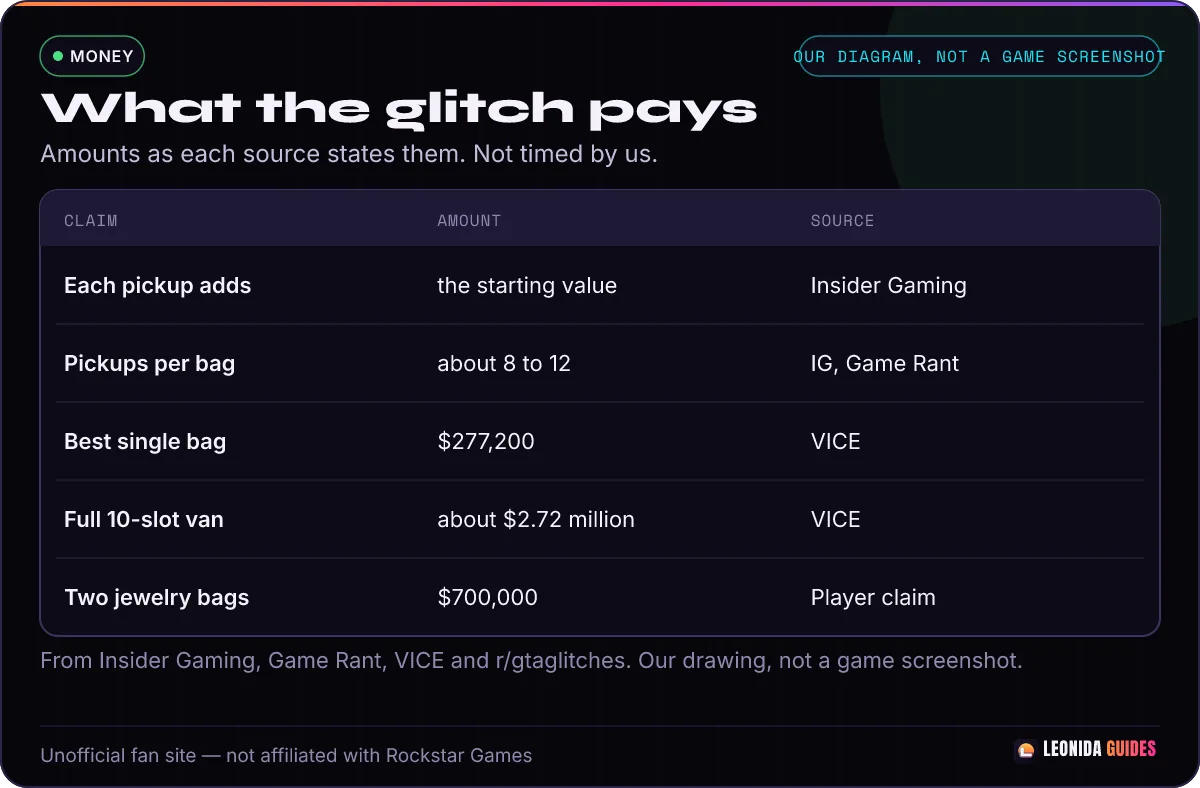
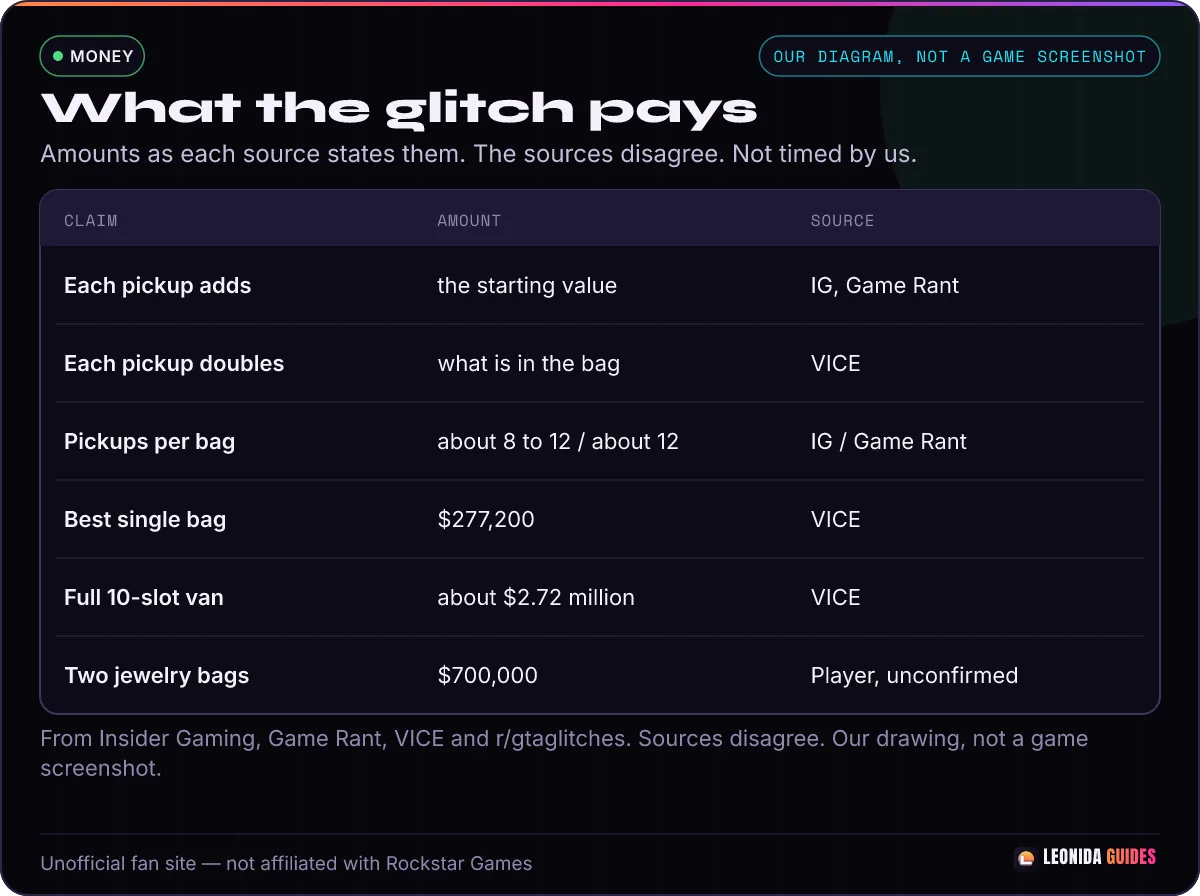
content: auto-publish 2026-11-28T18:31:50.651Z

diff --git a/content/gta-6-stash-bag-duplication-glitch.md b/content/gta-6-stash-bag-duplication-glitch.md
@@ -13,7 +13,9 @@ sources:
   - "VICE | https://www.vice.com/en/article/new-gta-6-money-glitch-lets-you-duplicate-millions-in-minutes/"
   - "Rockstar Support, GTA VI Launch Updates | https://support.rockstargames.com/articles/sN5pEdFYZdlvijKXd6xpJ/grand-theft-auto-vi-launch-updates-ps5-xbox-series-x-or-s"
   - "r/gtaglitches, u/-UnknownInsider- | https://www.reddit.com/r/gtaglitches/comments/1y6zydm/unlimited_easy_faster_money_glitch/"
-  - "r/gtaglitches, u/LBJ_23_LAL | https://www.reddit.com/r/gtaglitches/comments/1y7p9wf/gta_vi_improved_crouch_method_money_glitch_1mil10/"
+  - "r/gtaglitches, u/inCORRECTruth | https://www.reddit.com/r/gtaglitches/comments/1y6zydm/unlimited_easy_faster_money_glitch/19tai3xsn8eg5/"
+  - "r/gtaglitches, u/Choppergunner58 | https://www.reddit.com/r/gtaglitches/comments/1y6zydm/unlimited_easy_faster_money_glitch/19taclzfdb76p/"
+  - "r/gtaglitches, u/cloeieex | https://www.reddit.com/r/gtaglitches/comments/1y6zydm/unlimited_easy_faster_money_glitch/19ta3vvuil0yt/"
 updated: 2026-11-28
 published: 2026-11-28
 status: live
@@ -26,9 +28,9 @@ tags: [money, glitch, stash-bags, ps5, xbox]
 
 # GTA 6 Stash Bag Duplication Glitch: Drop, Pick Up, Repeat
 
-> - **Quick answer:** **crouch**, drop a stash bag from the **Items** side of the weapon wheel, then pick it up again **without touching the left stick**. Each pickup adds the bag's starting value again (Insider Gaming, Game Rant, VICE).
-> - **What it pays:** it stops growing after about **8 to 12 pickups** (Insider Gaming, Game Rant). VICE's best bag was **$277,200**. A full 10-slot van of bags like that would be about **$2.72 million** (VICE).
-> - **Status: working** in outlet and player reports on 27 and 28 Nov, after update 01.002.002. No newer patch as of 28 Nov. Not tested by us.
+> - **Quick answer:** **crouch**, drop a stash bag from the **Items** side of the weapon wheel, then pick it up again **without touching the left stick**. Insider Gaming and Game Rant say each pickup adds the bag's starting value again. VICE says each pickup doubles what is in the bag. The sources disagree.
+> - **What it pays:** Insider Gaming says it stops growing after about **8 to 12 pickups**. Game Rant says about **12**. VICE's best bag was **$277,200**. A full 10-slot van of bags like that would be about **$2.72 million** (VICE).
+> - **Status: working** in outlet and player reports on 27 and 28 Nov, after the 23 Nov update. No newer patch as of 28 Nov. Not tested by us.
 
 **Words used on this page.** A *glitch* is a bug you can use on purpose. A *stash bag* is the bag your loot goes into: drugs, jewelry or marked bills. *Duplicate* means copy. The *Items wheel* is the items side of the weapon wheel. A *fence* is a person who buys stolen goods. *BuckMe* is the game's bank app.
 
@@ -38,10 +40,10 @@ tags: [money, glitch, stash-bags, ps5, xbox]
 
 | What | Answer | Source |
 |---|---|---|
-| You need | One stash bag with loot in it. Two bags work too. | Insider Gaming, VICE |
-| Where | Anywhere quiet on the map | VICE, Insider Gaming |
-| How much it grows | The starting value is added again on each pickup | Insider Gaming, Game Rant |
-| Limit per bag | About 8 to 12 pickups | Insider Gaming, Game Rant |
+| You need | One stash bag with loot in it. Two bags work too. | Insider Gaming, u/-UnknownInsider- |
+| Where | Anywhere on the map | VICE |
+| How much it grows | Sources disagree. Insider Gaming and Game Rant say the starting value is added again on each pickup. VICE says each pickup doubles what is in the bag. | Insider Gaming, Game Rant, VICE |
+| Limit per bag | About 8 to 12 pickups (Insider Gaming). Game Rant says about 12. | Insider Gaming, Game Rant |
 | Best bag in a test | $277,200 | VICE |
 | Both characters needed? | No | Game Rant |
 
@@ -50,72 +52,74 @@ tags: [money, glitch, stash-bags, ps5, xbox]
 
 ## Before you start
 
-1. **Fill a stash bag first.** The fuller the bag, the more each pickup adds (Insider Gaming, Game Rant). Rob a store, raid an illegal operation, or use the respawning drugs from our [GTA 6 money glitch](/money/gta-6-money-glitch/) page (VICE).
+1. **Fill a stash bag first.** Insider Gaming says a full bag makes the glitch worth more. Game Rant says the higher the starting value, the more you make each cycle. Rob a store or heist (Game Rant), raid an illegal operation, or use the respawning drugs from our [GTA 6 money glitch](/money/gta-6-money-glitch/) page (VICE).
 2. **Get away from trouble.** Police or enemies can interrupt you (Insider Gaming).
 3. **Check your BuckMe limit.** Money over your limit shows as "pending" (VICE). See the tips below.
 
-:::spoiler Who pays the most for drugs (names a fence from Chapter 3)
+:::spoiler Who pays the most for drugs (names a fence)
 Insider Gaming and VICE say **Tyrone** pays well for narcotics. VICE drives the full van to Tyrone in Vice City. Insider Gaming says he pays the most once your relationship with him is maxed out.
 :::
 
 ## How to do the stash bag duplication glitch
 
-1. **Crouch.** Press **Circle** (Xbox: **B**) (VICE; Classic controls use L3). Wait until your character is all the way down (u/LBJ_23_LAL).
+1. **Crouch.** Press **Circle** (VICE). VICE only gives the PlayStation button.
 2. **Stop touching the left stick** from now on (Insider Gaming, Game Rant).
 3. **Open the weapon wheel.** Hold **L1** (Xbox: **LB**). Press **R1** (Xbox: **RB**) to go to **Items** (Game Rant).
 4. **Drop the bag.** Highlight the stash bag and hold **Circle** (Xbox: **B**) (Game Rant, Insider Gaming).
 5. **Look at the bag with the right stick only** until the pick-up prompt shows (Game Rant).
-6. **Pick it up.** Press **Triangle** (Xbox: **Y**) (VICE, u/LBJ_23_LAL). The bag's value goes up.
-7. **Repeat steps 3 to 6** until the value stops going up. Then put the bag in your car or sell it, and start again with a new bag (Game Rant).
+6. **Pick it up.** Press **Triangle** (VICE). VICE only gives the PlayStation button. The bag's value goes up.
+7. **Repeat steps 3 to 6** until the value stops going up. Game Rant says to sell the bag and start again with a new one. VICE says you can store a finished bag in a van first.
 
-**Two bags at once.** Insider Gaming says to drop your **second** bag first, then the first, and pick both up the same way. Both grow.
+**Two bags at once.** Insider Gaming says to drop your **second** bag first, then the first, and pick both up the same way. Both grow. The original post by u/-UnknownInsider- also uses two bags.
 
 **Did nothing happen?** You probably moved. Game Rant and Insider Gaming both say your character must not move. Drop the bag again and only turn the camera.
 
-![Our diagram with three cards: crouch and stay still, drop from the Items wheel, pick up with the camera only. Not a game screenshot.](TODO: image:gta-6-stash-bag-duplication-glitch-step-2 — diagram, our own art: three rule cards for the glitch, what to do and what breaks it)
+![Our diagram with three cards: crouch and stay still, drop from the Items wheel, pick up with the camera only. Moving the left stick breaks it. Not a game screenshot.](TODO: image:gta-6-stash-bag-duplication-glitch-step-2 — diagram, our own art: three rule cards for the glitch, what to do and what breaks it)
 *Caption: Diagram. The three rules: stay crouched, drop from Items, move only the camera.*
 
 ## The faster version: copy a full bag (player tip)
 
-Two players say a full bag can fill a nearly empty bag in one go. This is **unconfirmed**: no outlet has tested it yet.
+One player says a full bag can fill a nearly empty bag in one go. This is **unconfirmed**: no outlet has tested it yet.
 
 1. Max out one bag with the steps above.
 2. Start a second bag with just **one item** in it.
 3. Drop both bags. Pick up the **full bag first**, then the small one.
-4. The small bag copies the full bag's value (u/inCORRECTruth).
+4. The small bag copies the full bag's value ([u/inCORRECTruth](https://www.reddit.com/r/gtaglitches/comments/1y6zydm/unlimited_easy_faster_money_glitch/19tai3xsn8eg5/)).
 5. Store the full bag in your van, grab one more item into a new bag, and repeat.
 
-[u/inCORRECTruth](https://www.reddit.com/r/gtaglitches/comments/1y6zydm/unlimited_easy_faster_money_glitch/19tai3xsn8eg5/) says this is "way faster" than doing every bag from scratch. [u/LBJ_23_LAL](https://www.reddit.com/r/gtaglitches/comments/1y7p9wf/gta_vi_improved_crouch_method_money_glitch_1mil10/) describes the same idea at the warehouse: hold only a maxed bag, grab one brick of drugs, max it at once, stow it, and fill a 10-slot van. That post claims over **$1 million in about 10 minutes**. This is one player's claim. We have not timed it.
+[u/inCORRECTruth](https://www.reddit.com/r/gtaglitches/comments/1y6zydm/unlimited_easy_faster_money_glitch/19tai3xsn8eg5/) says this is "way faster" than doing every bag from scratch. Player tip. We have not timed it.
 
 ## What it pays
 
 | Claim | Amount | Source |
 |---|---|---|
-| Value added per pickup | The bag's starting value (for example $10,000 becomes $20,000, then $30,000) | Insider Gaming |
-| Pickups before it stops | About 8 to 12 | Insider Gaming, Game Rant |
+| Value added per pickup | The bag's starting value (for example $10,000 becomes $20,000, then $30,000) | Insider Gaming, Game Rant |
+| Value doubles per pickup | The contents of the bag are doubled | VICE |
+| Pickups before it stops | About 8 to 12 | Insider Gaming |
+| Pickups before it stops | About 12 | Game Rant |
 | Best single bag | $277,200 | VICE |
 | Full 10-slot van at $100,000 a bag | $1 million | VICE |
 | Full 10-slot van at $277,200 a bag | about $2.72 million | VICE |
-| Two full bags | $260,000 with drugs, $700,000 with jewelry | u/cloeieex (player claim) |
+| Two full bags | $260,000 with drugs, $700,000 with jewelry | [u/cloeieex](https://www.reddit.com/r/gtaglitches/comments/1y6zydm/unlimited_easy_faster_money_glitch/19ta3vvuil0yt/) (unconfirmed player report) |
 
-The top value seems to depend on what is in the bag. The outlets and players give different numbers, so check the value in the Items wheel before you sell.
+The sources disagree on how the value grows, and on the top amount. [u/cloeieex](https://www.reddit.com/r/gtaglitches/comments/1y6zydm/unlimited_easy_faster_money_glitch/19ta3vvuil0yt/) says the cap depends on what is in the bag. That player report does not match VICE's test of $277,200 in a single bag, which is already higher than the $260,000 two-bag drugs figure. Check the value in the Items wheel before you sell.
 
-![Our table of what the glitch pays by source: Insider Gaming, Game Rant, VICE and one player claim. Not a game screenshot.](TODO: image:gta-6-stash-bag-duplication-glitch-step-3 — diagram, our own art: compare table of payout claims and who made them)
-*Caption: Diagram. What each source says the glitch pays.*
+![Table of what the GTA 6 stash bag glitch pays: Insider Gaming and Game Rant say each pickup adds the starting value, VICE says each pickup doubles the contents, Insider Gaming says about 8 to 12 pickups and Game Rant says about 12, VICE got $277,200 in one bag and says a full van is about $2.72 million, one unconfirmed player claim says $700,000 for two jewelry bags. Sources disagree. Not a game screenshot.](TODO: image:gta-6-stash-bag-duplication-glitch-step-3 — diagram, our own art: compare table of payout claims and who made them)
+*Caption: Diagram. What each source says the glitch pays. The sources disagree.*
 
 ## Tips and problems
 
-- **Payment says "pending".** VICE says BuckMe still has a **$2 million** limit even in Chapter 5. Spend money in shops to make room, and the pending money comes in.
-- **Sell bags one at a time.** [u/Choppergunner58](https://www.reddit.com/r/gtaglitches/comments/1y6zydm/unlimited_easy_faster_money_glitch/19taclzfdb76p/) says not to park the van near the fence, and to sell each bag on its own. Player tip.
+- **Payment says "pending".** VICE says BuckMe has a **$2 million** limit. Spend money in shops to make room, and the pending money comes in.
+- **Sell bags one at a time.** [u/Choppergunner58](https://www.reddit.com/r/gtaglitches/comments/1y6zydm/unlimited_easy_faster_money_glitch/19taclzfdb76p/) says not to park the vehicle near the buyer, and to sell each bag on its own. Unconfirmed player tip.
 - **No crouch?** The [original post by u/-UnknownInsider-](https://www.reddit.com/r/gtaglitches/comments/1y6zydm/unlimited_easy_faster_money_glitch/) drops two bags and picks them up very fast, without crouching. The outlets all crouch, so crouch if it does not work.
-- **Carry less, bank more.** Loot you carry is at risk if you are arrested or die. See [GTA 6 how to make money fast](/money/gta-6-how-to-make-money-fast/).
+- For more money tips, see [GTA 6 how to make money fast](/money/gta-6-how-to-make-money-fast/).
 
 ## Is it patched?
 
-**Status: working** (checked 2026-11-28). Not tested by us.
+**Status: working** in outlet and player reports on 27 and 28 Nov, after the 23 Nov update. No newer patch as of 28 Nov. Not tested by us.
 
 - [Insider Gaming](https://insider-gaming.com/how-to-gta-6-money-glitch-stash-bag-duplication/) and [Game Rant](https://gamerant.com/gta-6-unlimited-money-glitch-stash-bag-duplication-grand-theft-auto-6/) wrote it up on 27 Nov. [VICE](https://www.vice.com/en/article/new-gta-6-money-glitch-lets-you-duplicate-millions-in-minutes/) tested it on 28 Nov.
-- [Rockstar Support's Launch Updates](https://support.rockstargames.com/articles/sN5pEdFYZdlvijKXd6xpJ/grand-theft-auto-vi-launch-updates-ps5-xbox-series-x-or-s) were last updated on 23 Nov. That update (01.002.002) does not mention stash bags, and every report of this glitch came after it. We found no newer patch or Rockstar statement as of 28 Nov.
+- [Rockstar Support's Launch Updates](https://support.rockstargames.com/articles/sN5pEdFYZdlvijKXd6xpJ/grand-theft-auto-vi-launch-updates-ps5-xbox-series-x-or-s) were last updated on 23 Nov. Those notes do not mention stash bags, and every report of this glitch came after that update. We found no newer patch or Rockstar statement as of 28 Nov.
 - Insider Gaming expects Rockstar to patch it soon. Bank your money as you go.
 
 ## What players are saying
@@ -127,15 +131,15 @@ The top value seems to depend on what is in the bag. The outlets and players giv
 ## FAQ
 
 ### How does the GTA 6 stash bag duplication glitch work?
-Crouch, drop a stash bag from the Items wheel, and pick it up again while moving only the camera. Each pickup adds the bag's starting value (Insider Gaming, Game Rant).
+Crouch, drop a stash bag from the Items wheel, and pick it up again while moving only the camera. Insider Gaming and Game Rant say each pickup adds the bag's starting value. VICE says each pickup doubles what is in the bag. The sources disagree.
 
 ### How many times can I duplicate one bag?
-About 8 to 12 times, then the value stops going up (Insider Gaming, Game Rant). Sell it and start a new bag.
+Insider Gaming says about 8 to 12 times, then the value stops going up. Game Rant says about 12 times. Sell it and start a new bag.
 
 ### Is the stash bag glitch patched?
 Not in reports up to 28 Nov. Rockstar's last patch notes are from 23 Nov, and all reports of this glitch came after that. Not tested by us.
 
-### Do I need both Jason and Lucia?
+### Do I need both characters?
 No. Game Rant says you do not need both characters, a loot respawn or any vans moved.
 
 ### Do I need mods or a PC?
@@ -143,7 +147,7 @@ No. It uses normal buttons in story mode on PS5 or Xbox.
 
 ## Credits
 
-Method write-up and two-bag order: Grant Taylor-Hill at [Insider Gaming](https://insider-gaming.com/how-to-gta-6-money-glitch-stash-bag-duplication/). Button steps and 12-pickup limit: Tom Bowen at [Game Rant](https://gamerant.com/gta-6-unlimited-money-glitch-stash-bag-duplication-grand-theft-auto-6/). Test, best bag and BuckMe limit: Brent Koepp at [VICE](https://www.vice.com/en/article/new-gta-6-money-glitch-lets-you-duplicate-millions-in-minutes/). Early player post: u/-UnknownInsider- on r/gtaglitches ([post](https://www.reddit.com/r/gtaglitches/comments/1y6zydm/unlimited_easy_faster_money_glitch/)). Faster copy variant: [u/inCORRECTruth](https://www.reddit.com/r/gtaglitches/comments/1y6zydm/unlimited_easy_faster_money_glitch/19tai3xsn8eg5/) and u/LBJ_23_LAL ([post](https://www.reddit.com/r/gtaglitches/comments/1y7p9wf/gta_vi_improved_crouch_method_money_glitch_1mil10/)).
+Method write-up and two-bag order: Grant Taylor-Hill at [Insider Gaming](https://insider-gaming.com/how-to-gta-6-money-glitch-stash-bag-duplication/). Button steps and about-12-pickup limit: Tom Bowen at [Game Rant](https://gamerant.com/gta-6-unlimited-money-glitch-stash-bag-duplication-grand-theft-auto-6/). Test, doubling description, best bag and BuckMe limit: Brent Koepp at [VICE](https://www.vice.com/en/article/new-gta-6-money-glitch-lets-you-duplicate-millions-in-minutes/). Early player post: u/-UnknownInsider- on r/gtaglitches ([post](https://www.reddit.com/r/gtaglitches/comments/1y6zydm/unlimited_easy_faster_money_glitch/)). Faster copy variant: [u/inCORRECTruth](https://www.reddit.com/r/gtaglitches/comments/1y6zydm/unlimited_easy_faster_money_glitch/19tai3xsn8eg5/). Two-bag payout report: [u/cloeieex](https://www.reddit.com/r/gtaglitches/comments/1y6zydm/unlimited_easy_faster_money_glitch/19ta3vvuil0yt/).
 
 Related: [GTA 6 money glitch](/money/gta-6-money-glitch/) · [GTA 6 fences and stash bags](/money/gta-6-fences-stash-bags/) · [GTA 6 how to make money fast](/money/gta-6-how-to-make-money-fast/)
 
@@ -151,7 +155,7 @@ Related: [GTA 6 money glitch](/money/gta-6-money-glitch/) · [GTA 6 fences and s
 
 | Date | What changed |
 |---|---|
-| 2026-11-28 | Page created from Insider Gaming, Game Rant, VICE and r/gtaglitches posts and comments. Not tested by us. |
+| 2026-11-28 | Page created from Insider Gaming, Game Rant, VICE and r/gtaglitches posts and comments. Sources disagree on how the value grows. Not tested by us. |
 
 ---
 *Unofficial fan site, not affiliated with Rockstar Games or Take-Two.*

diff --git a/site-images/_slots-report.md b/site-images/_slots-report.md
@@ -2,7 +2,7 @@
 
 - content slots: 267
 - specs: 267
-- rendered this run: 3
+- rendered this run: 1
 - no-spec: 0
 - errors: 0
 - missing: none
